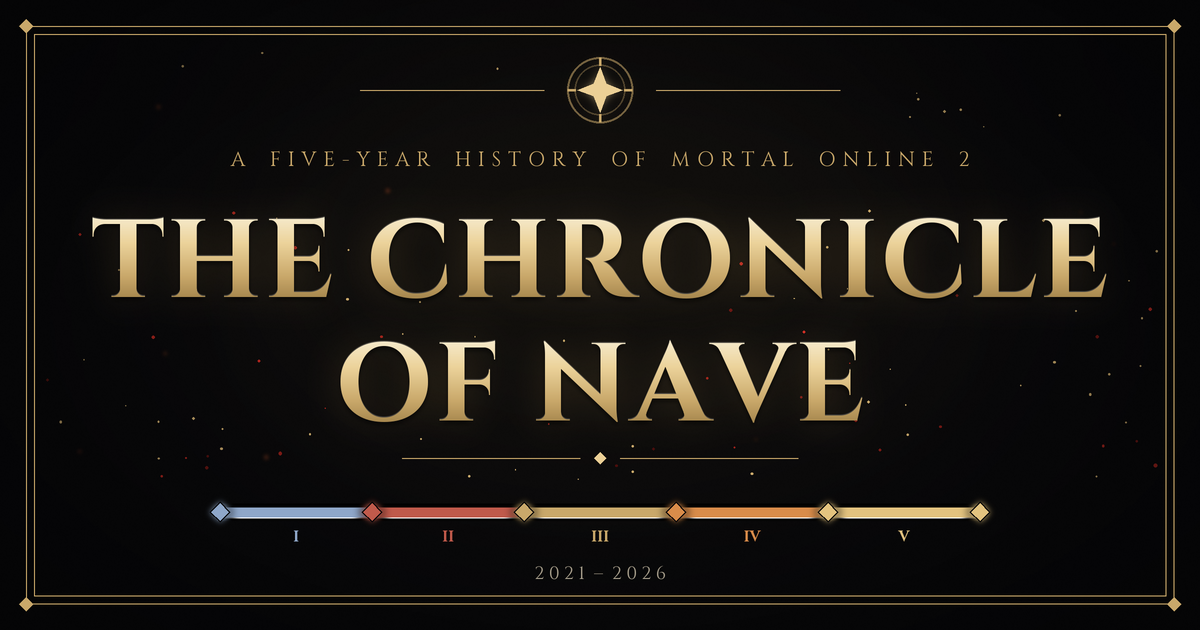
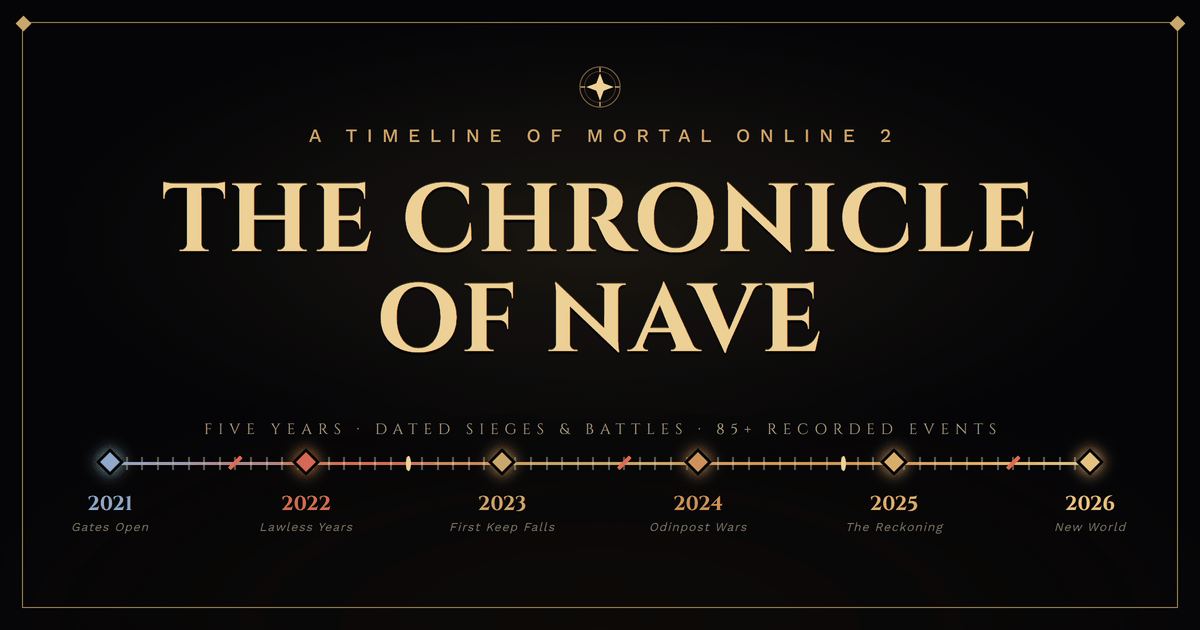
Redesign the SEO/OG preview image around the timeline, tighten metadata
The old OG image just showed "I II III IV V" on a plain gradient bar
— five roman numerals with no dates, no sense of "events," easy to
mistake for a generic chapter list rather than what the site actually
is: a dated timeline of recorded sieges and battles.

Rebuilt it from scratch (no source file existed for the old one) as a
real HTML page styled with the site's own fonts/colors, rendered
headlessly at 2x via Puppeteer (a cached Chromium binary was already
available) and downsampled to a crisp 1200x630 with Lanczos
resampling — avoids the soft/hazy edges a native 1x render would have
had. New image: the six years 2021-2026 as diamond nodes along a
tick-marked spine (dense minor ticks plus a few siege/bigfight-styled
marks, echoing the real site's own progress-bar iconography), each
year labeled with its actual color-matched age tint and a short era
caption ("Gates Open," "First Keep Falls," "The Reckoning," etc.), and
a line reading "Five Years - Dated Sieges & Battles - 85+ Recorded
Events" (checked against the live entry count, 86, rounded down so it
won't go stale on the next edit). Background is a plain vignette, no
scattered particle noise; title uses a tight, non-blurred shadow for
carved-stone depth rather than a soft glow.

Also caught and fixed a real color bug while building it: the 2022
node used an ad-hoc color that didn't match the site's actual Age II
tint (#d66b5a) — corrected before finalizing.
[…]

Changed region(s): [[0.0617, 0.0905, 0.925, 0.8746], [0.0, 0.0302, 0.9867, 0.9651], [0.0617, 0.7841, 0.1233, 0.8444]]

diff --git a/index.html b/index.html
@@ -4,28 +4,29 @@
 <meta charset="UTF-8">
 <meta name="viewport" content="width=device-width, initial-scale=1.0">
 <title>The Chronicle of Nave — A Five-Year History of Mortal Online 2</title>
-<meta name="description" content="Being a true and epic history of the guilds of Mortal Online 2 — five years in which a world was won, and lost, and won again. Scroll through the chronicle of Nave.">
+<meta name="description" content="A dated timeline of Mortal Online 2's guild wars — five years of sieges, battles, and betrayals, each entry backed by video from the chroniclers who filmed it. Scroll through the chronicle of Nave.">
 <meta name="robots" content="index, follow">
 <link rel="canonical" href="https://mo2chronicles.com/">
 
 <!-- Open Graph -->
 <meta property="og:title" content="The Chronicle of Nave — A Five-Year History of Mortal Online 2">
-<meta property="og:description" content="A five-year history of the guilds of Mortal Online 2 — of sieges, betrayals, and the sixteen thrones. Set down in the manner of the old chronicles.">
+<meta property="og:description" content="A dated timeline of Mortal Online 2's guild wars — sieges, battles, and betrayals across five years, set down in the manner of the old chronicles.">
 <meta property="og:type" content="website">
 <meta property="og:url" content="https://mo2chronicles.com/">
 <meta property="og:site_name" content="The Chronicle of Nave">
 <meta property="og:locale" content="en_US">
-<meta property="og:image" content="https://mo2chronicles.com/assets/og-image.png?v=5">
+<meta property="og:image" content="https://mo2chronicles.com/assets/og-image.png?v=6">
+<meta property="og:image:type" content="image/png">
 <meta property="og:image:width" content="1200">
 <meta property="og:image:height" content="630">
-<meta property="og:image:alt" content="The Chronicle of Nave — a five-year history of Mortal Online 2">
+<meta property="og:image:alt" content="A timeline running 2021 to 2026, marking the dated sieges and battles chronicled in The Chronicle of Nave">
 
 <!-- Twitter Card -->
 <meta name="twitter:card" content="summary_large_image">
 <meta name="twitter:title" content="The Chronicle of Nave — A Five-Year History of Mortal Online 2">
-<meta name="twitter:description" content="A five-year history of the guilds of Mortal Online 2 — of sieges, betrayals, and the sixteen thrones.">
-<meta name="twitter:image" content="https://mo2chronicles.com/assets/og-image.png?v=5">
-<meta name="twitter:image:alt" content="The Chronicle of Nave — a five-year history of Mortal Online 2">
+<meta name="twitter:description" content="A dated timeline of Mortal Online 2's guild wars — five years of sieges, battles, and betrayals, backed by video from the chroniclers who filmed them.">
+<meta name="twitter:image" content="https://mo2chronicles.com/assets/og-image.png?v=6">
+<meta name="twitter:image:alt" content="A timeline running 2021 to 2026, marking the dated sieges and battles chronicled in The Chronicle of Nave">
 
 <meta name="theme-color" content="#050507">
 <link rel="icon" type="image/svg+xml" href="favicon.svg">
@@ -45,7 +46,8 @@
   "name": "The Chronicle of Nave",
   "alternateName": "MO2 Chronicles",
   "url": "https://mo2chronicles.com/",
-  "description": "Being a true and epic history of the guilds of Mortal Online 2 — five years in which a world was won, and lost, and won again.",
+  "description": "A dated timeline of Mortal Online 2's guild wars — five years of sieges, battles, and betrayals, each entry backed by video from the chroniclers who filmed it.",
+  "image": "https://mo2chronicles.com/assets/og-image.png?v=6",
   "inLanguage": "en",
   "about": {
     "@type": "VideoGame",